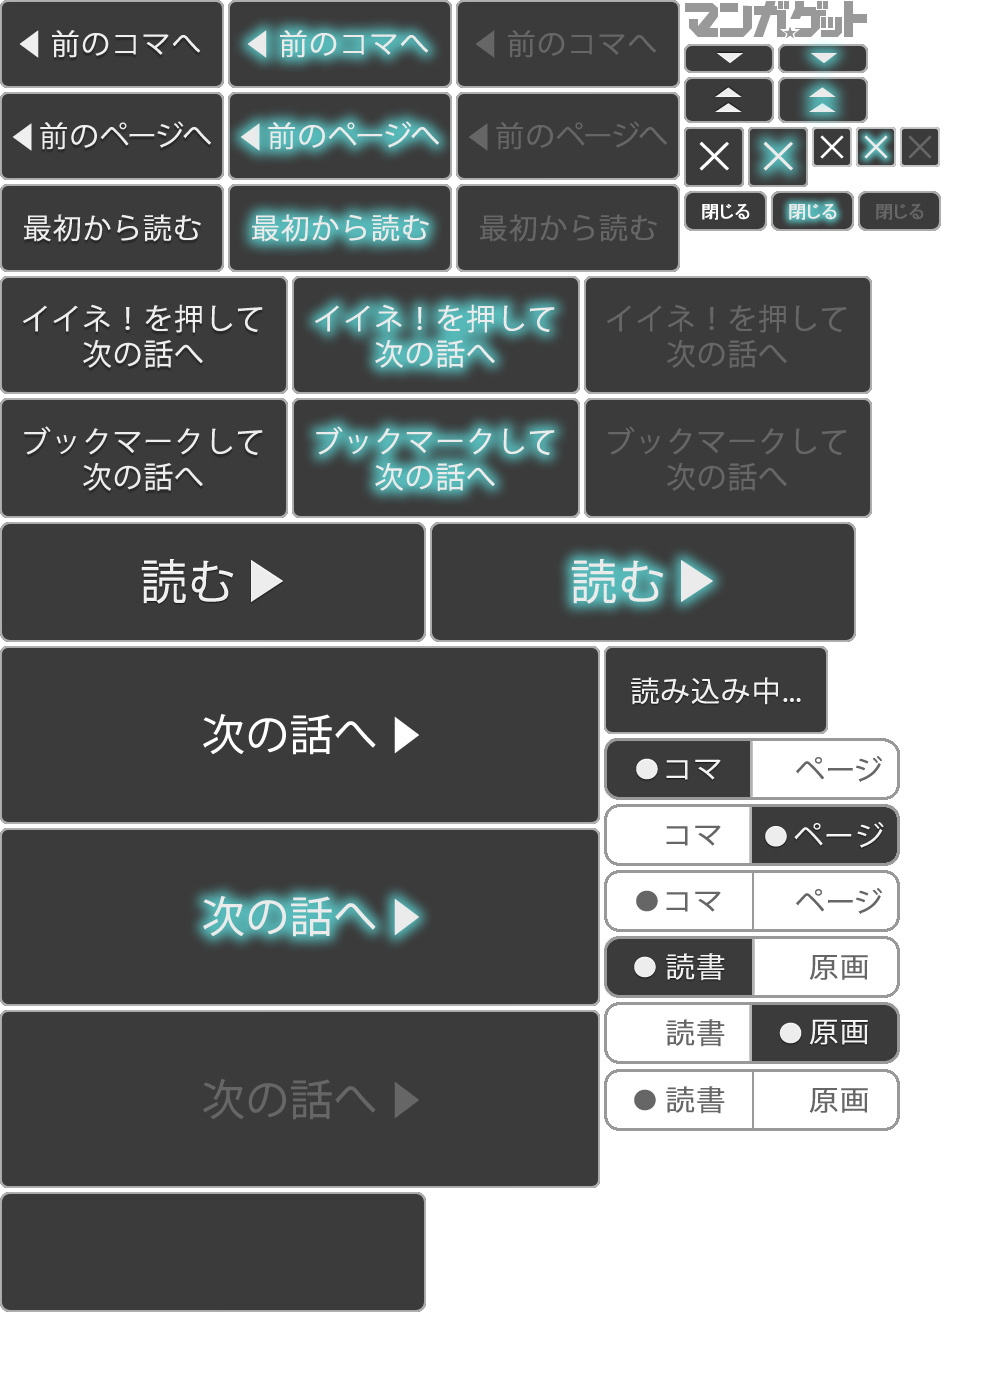
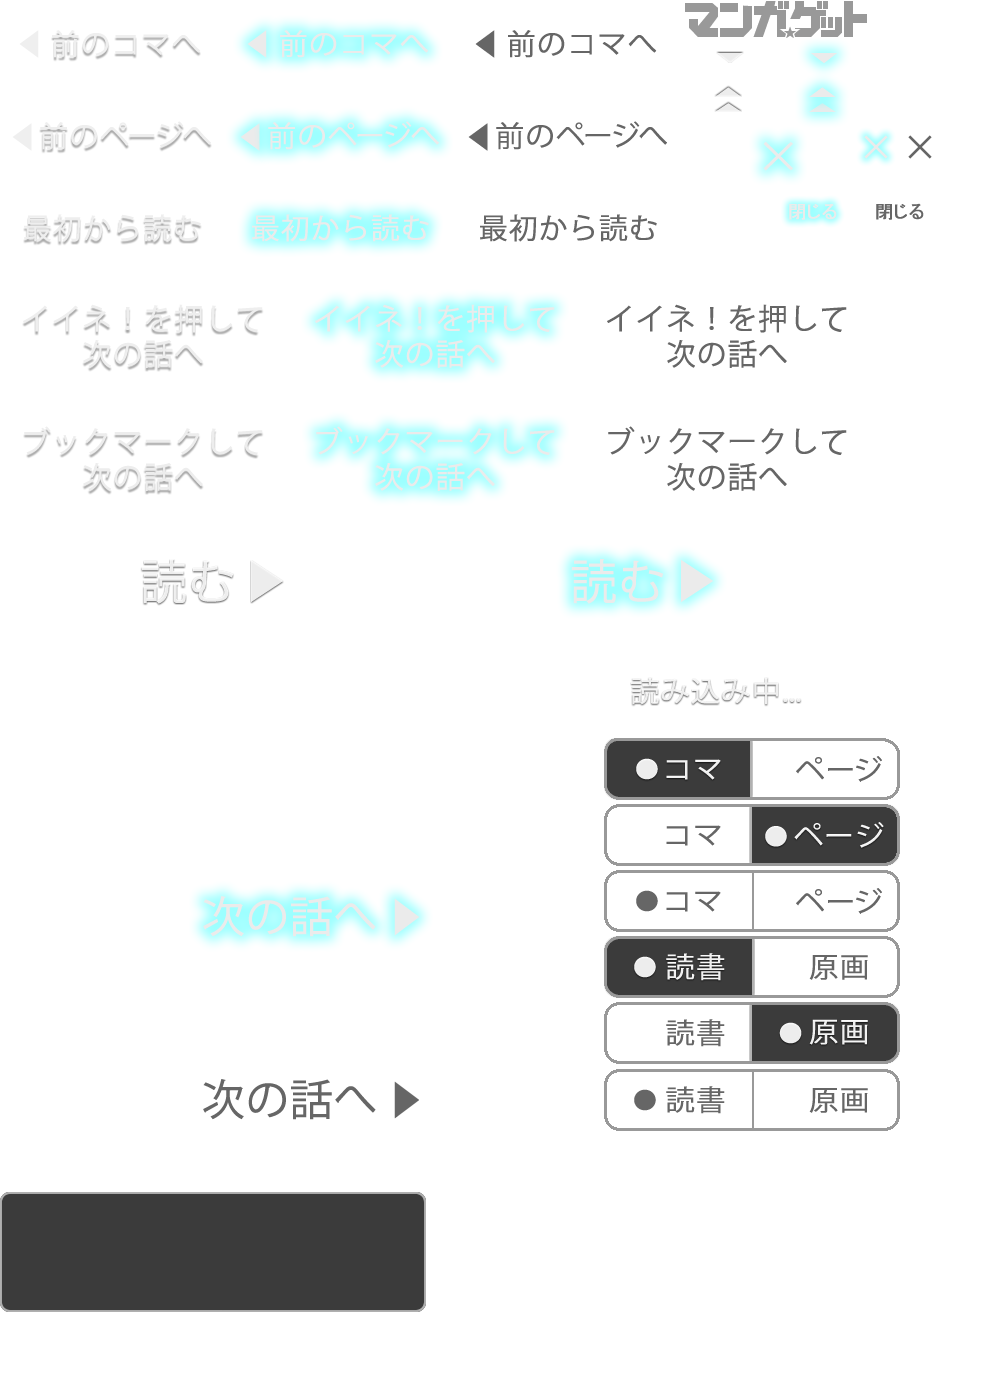
removed boader

diff --git a/target/dist-release/ja_pc.html b/target/dist-release/ja_pc.html
@@ -52,4 +52,4 @@ false&&h<0||m===0};this.isAtScrollStart=function(){return m!==0&&k===false&&h<=0
 function(){if(k)if(!w&&m<=h||w&&h<0)k=false;else{P();var v=false;if(r!==0&&C>=u&&C<=A){C+=w?-r:r;if(C<=u)C=u;else if(C>=A)C=A;else v=true}if(o!==0&&s>=z&&s<=q){s+=w?-o:o;if(s<=z)s=z;else if(s>=q)s=q;else v=true}if(!v){k=false;if(w)h--;else h++}}};this.skipScroll=function(){for(var v=h+1;h<v&&T();)X()};this.skipBack=function(){k=w=true;for(var v=h-1;v<h&&T();)X();k=false}};jQuery.cookie=function(g,f,d){if(typeof f!="undefined"){d=d||{};if(f===null){f="";d.expires=-1}var i="";if(d.expires&&(typeof d.expires=="number"||d.expires.toUTCString)){if(typeof d.expires=="number"){i=new Date;i.setTime(i.getTime()+d.expires*864E5)}else i=d.expires;i="; expires="+i.toUTCString()}var B=d.path?"; path="+d.path:"",N=d.domain?"; domain="+d.domain:"";d=d.secure?"; secure":"";document.cookie=[g,"=",encodeURIComponent(f),i,B,N,d].join("")}else{f=null;if(document.cookie&&document.cookie!=
 ""){d=document.cookie.split(";");for(i=0;i<d.length;i++){B=jQuery.trim(d[i]);if(B.substring(0,g.length+1)==g+"="){f=decodeURIComponent(B.substring(g.length+1));break}}}return f}};
 
[2 lines of base64/hex data omitted]

diff --git a/src/main/resources/layout.480.css b/src/main/resources/layout.480.css
@@ -8,8 +8,19 @@
   margin: 4px 8px 4px 8px;
 }
 
-.sprite {background-image: url(ja.480.png?v=7); background-repeat: no-repeat; text-indent:-9999px; overflow: hidden; display:block;}
-.sprite2 {background-image: url(ja.480.png?v=7); background-repeat: no-repeat; text-indent:-9999px; overflow: hidden; display:block;}
+.sprite {
+	border: 2px solid #999;
+	background: rgba(0,0,0,0.7);
+	border-radius: 10px;        /* CSS3草案 */  
+	-webkit-border-radius: 10px;    /* Safari,Google Chrome用 */  
+	-moz-border-radius: 10px;  
+	
+	background-image: url(ja.480.png?v=9);
+	background-repeat:no-repeat; 
+	text-indent:-9999px;
+	overflow:hidden;
+	display:block;
+}
 #vote {
     margin-right: 15px;
     margin-left: auto;
@@ -37,7 +48,7 @@
 #vote.disable              {background-position: -438px -139px; width: 218px;height: 90px;cursor: default;}
 
 #prev_scene                           {background-position: 0 0;width: 170px;height: 68px;cursor: pointer;}
-#prev_scene:hover, #prev_scene.active {background-position: -171px 0;width: 170px;height: 68px;cursor: pointer;}
+#prev_scene:hover, #prev_scene.active {background-position: -171px 1px;width: 170px;height: 68px;cursor: pointer;}
 #prev_scene.disable                   {background-position: -342px 0;width: 170px;height: 68px;cursor: default;}
 
 #prev_page                          {background-position: 0px -866px;     width: 171px;height: 69px;cursor: pointer;}
@@ -55,8 +66,8 @@
 #toggle_scene_view.disable  {background-position:0px -817px; width: 222px;height: 48px; cursor:default;}
 #toggle_reading.disable {background-position: -223px -817px; width: 222px;height: 48px; cursor:default;}
 
-#menu_tab_close {background-position: -583px -38px;width: 69px;height: 35px; cursor:pointer;}
-#menu_tab_close:hover, #menu_tab_close.active {background-position: -513px -38px;width: 69px;height: 35px; cursor:pointer;}
+#menu_tab_close {background-position: -513px -38px;width: 69px;height: 35px; cursor:pointer;}
+#menu_tab_close:hover, #menu_tab_close.active {background-position: -583px -38px;width: 69px;height: 35px; cursor:pointer;}
 
 #close                      {background-position: -560px -74px;width: 46px;height: 46px; cursor: pointer;}
 #close:hover, #close.active {background-position: -513px -74px;width: 46px;height: 46px; cursor: pointer;}
@@ -66,7 +77,7 @@
 #logo_reader    {background-position: -513px -1px;width: 153px;height: 36px;position:absolute; right:16px; top:16px;}
 
 #start                       {background-position: 0 -726px;      width: 320px; height: 90px;cursor: pointer;}
-#start:hover, #start.active  {background-position: -321px -726px; width: 320px; height: 90px;cursor: pointer;}
+#start:hover, #start.active  {background-position: -320px -726px; width: 320px; height: 90px;cursor: pointer;}
 
 #close_ad                  		  {background-position: -607px -74px;width: 74px;height: 36px; cursor: pointer;}
 #close_ad:hover, #close_ad.active {background-position: -683px -74px;width: 74px;height: 46px; cursor: pointer;}

diff --git a/src/main/resources/layout.320.css b/src/main/resources/layout.320.css
@@ -8,8 +8,20 @@
   margin: 4px 6px 4px 6px;
 }
 
-.sprite {background-image: url(ja.320.png?v=5); background-size: 500px 700px; background-repeat: no-repeat; text-indent:-9999px; overflow: hidden; display:block;}
-.sprite2 {background-image: url(ja.320.png?v=5); background-size: 500px 700px; background-repeat: no-repeat; text-indent:-9999px; overflow: hidden; display:block;}
+.sprite {
+	border: 1px solid #999;
+	background: rgba(0,0,0,0.7);
+	border-radius: 5px;        /* CSS3草案 */  
+	-webkit-border-radius: 5px;    /* Safari,Google Chrome用 */  
+	-moz-border-radius: 5px;  
+	
+	background-image: url(ja.320.png?v=6);
+	background-size: 500px 700px;
+	background-repeat:no-repeat; 
+	text-indent:-9999px;
+	overflow:hidden;
+	display:block;
+}
 
 #vote {
     margin-right: 10px;
@@ -64,7 +76,7 @@
 #menu_tab:hover, #menu_tab.active {background-position: -342px -22px;width: 45px;height: 15px; cursor:pointer;}
 
 #menu_tab_close                       		  {background-position: -342px -39px;width: 45px;height: 23px; cursor:pointer;}
-#menu_tab_close:hover, #menu_tab_close.active {background-position: -342px -39px;width: 45px;height: 23px; cursor:pointer;}
+#menu_tab_close:hover, #menu_tab_close.active {background-position: -389px -39px;width: 45px;height: 23px; cursor:pointer;}
 
 #close                      {background-position: -342px -64px;width: 30px;height: 30px; cursor:pointer;}
 #close:hover, #close.active {background-position: -342px -64px;width: 30px;height: 30px; cursor:pointer;}
@@ -75,7 +87,7 @@
 #logo_reader    {background-position: -343px 0;width: 92px;height: 21px;position:absolute; right:12px; top:12px;}
 
 #start                       {background-position: 0 -261px;width: 213px; height: 60px; cursor: pointer;}
-#start:hover, #start.active  {background-position: -215px -261x;width: 213px; height: 60px; cursor: pointer;}
+#start:hover, #start.active  {background-position: -215px -261px;width: 213px; height: 60px; cursor: pointer;}
 
 #close_ad                       	{background-position: -342px -96px;width: 42px;height: 20px; cursor: pointer;}
 #close_ad:hover, #close_ad.active   {background-position: -386px -96px;width: 42px;height: 20px; cursor: pointer;}

diff --git a/src/main/js/ja_pc.html b/src/main/js/ja_pc.html
@@ -18,7 +18,7 @@
       }else{
           var css_size = 480;
       }
-      fileref.setAttribute("href", "layout."+css_size+".css?v=12" );
+      fileref.setAttribute("href", "layout."+css_size+".css?v=13" );
       if(/Android/.test(window.navigator.userAgent)){
           $("html").css("zoom" ,$(window).width()/css_size);
       }

diff --git a/src/test/resources/debug2.php b/src/test/resources/debug2.php
@@ -1,14 +1,14 @@
 <!DOCTYPE html><html><head></head><body><div>
 <div>Development</div>
 <h2>nomember 240</h2>
-<iframe src="/local-test/mr/target/dist-debug/ja_pc.html?t=<?=time()?>#2005" width="240" height="240" frameborder="0" allowfullscreen="true" scrolling="no"></iframe>
+<iframe src="/local-test/mr/target/dist-debug/ja_pc.html?t=<?=time()?>#27960" width="240" height="240" frameborder="0" allowfullscreen="true" scrolling="no"></iframe>
 <h2>nomember 320</h2>
-<iframe src="/local-test/mr/target/dist-debug/ja_pc.html?t=<?=time()?>#2005" width="320" height="320" frameborder="0" allowfullscreen="true" scrolling="no"></iframe>
+<iframe src="/local-test/mr/target/dist-debug/ja_pc.html?t=<?=time()?>#27960" width="320" height="320" frameborder="0" allowfullscreen="true" scrolling="no"></iframe>
 <h2>member 320</h2>
-<iframe src="/local-test/mr/target/dist-debug/ja_pc.html?t=<?=time()?>#2005,member" width="320" height="320" frameborder="0" allowfullscreen="true" scrolling="no"></iframe>
+<iframe src="/local-test/mr/target/dist-debug/ja_pc.html?t=<?=time()?>#27960,member" width="320" height="320" frameborder="0" allowfullscreen="true" scrolling="no"></iframe>
 <h2>member 320 auto</h2>
-<iframe src="/local-test/mr/target/dist-debug/ja_pc.html?t=<?=time()?>#2005,member,auto" width="320" height="320" frameborder="0" allowfullscreen="true" scrolling="no"></iframe>
+<iframe src="/local-test/mr/target/dist-debug/ja_pc.html?t=<?=time()?>#27960,member,auto" width="320" height="320" frameborder="0" allowfullscreen="true" scrolling="no"></iframe>
 <h2>nomember 480</h2>
-<iframe src="/local-test/mr/target/dist-debug/ja_pc.html?t=<?=time()?>#2005" width="480" height="480" frameborder="0" allowfullscreen="true" scrolling="no"></iframe>
+<iframe src="/local-test/mr/target/dist-debug/ja_pc.html?t=<?=time()?>#27960,member" width="480" height="480" frameborder="0" allowfullscreen="true" scrolling="no"></iframe>
 </div>
 </body></html>
